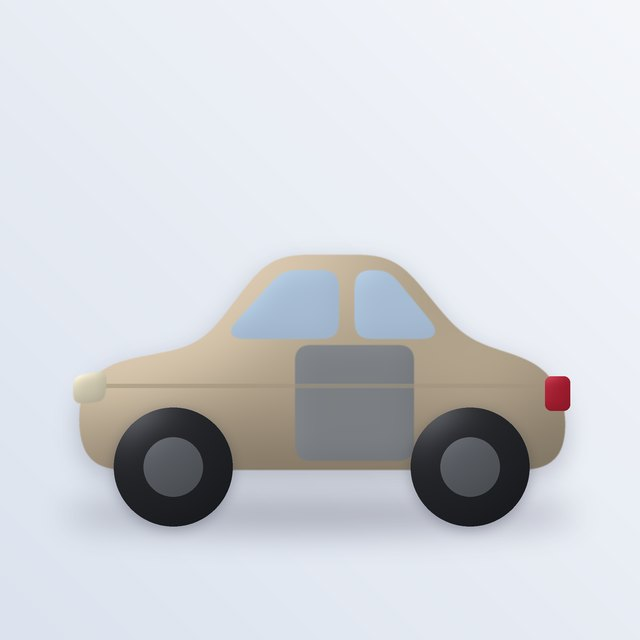
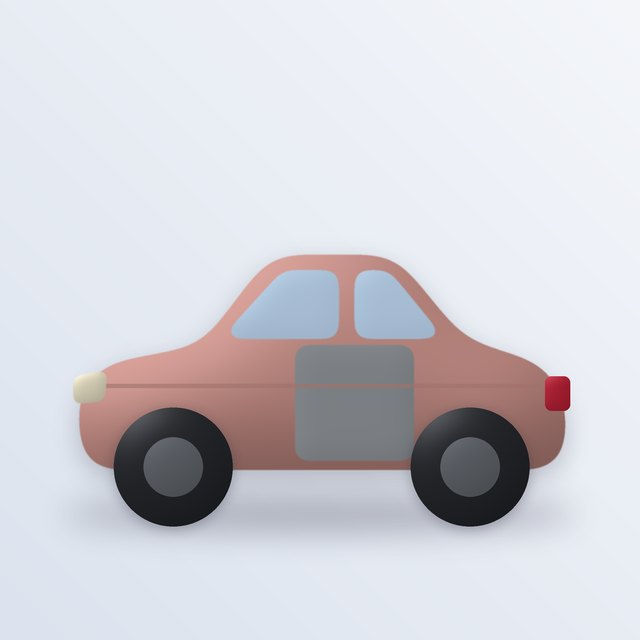
Design proposal v0.4: living La Ruta view, faded chosen colour for segunda mano, decisions
Claude-Session: https://claude.ai/code/session_01NvZbTZwM97iNLxjbUBvytG

Changed region(s): [[0.125, 0.375, 0.9062, 0.75]]

diff --git a/docs/design/relanti-design-proposal.html b/docs/design/relanti-design-proposal.html
@@ -271,9 +271,11 @@ tr.new td:first-child::after{content:" new";font-family:var(--display);font-size
     <div class="sub">Tu road trip hasta el permiso, con Turbo en el salpicadero</div>
   </div>
   <div class="posts" aria-hidden="true"><i></i><i></i></div>
-  <p class="lede"><strong>Design proposal, v0.3 (4 Nov 2026).</strong> Relanti is a native iOS and Android app for passing the Spanish DGT theory exam for the B licence. It reuses Volantón's flow (one shell, levels you land on two different days, calm rewards, content as data) and replaces the airport with a road trip: one road with a stop for every topic, ending at the exam centre. You drive your own car, Relanti, and the GPS on its dashboard guides you there. Use the switch at the top to see the mocks in light or dark.</p>
+  <p class="lede"><strong>Design proposal, v0.4 (4 Nov 2026).</strong> Relanti is a native iOS and Android app for passing the Spanish DGT theory exam for the B licence. It reuses Volantón's flow (one shell, levels you land on two different days, calm rewards, content as data) and replaces the airport with a road trip: one road with a stop for every topic, ending at the exam centre. You drive your own car, Relanti, and the GPS on its dashboard guides you there. Use the switch at the top to see the mocks in light or dark.</p>
   <div class="changes">
-    <div><b>New in v0.3: Puntos del carnet</b>You earn 15 licence points as you master etapas, mirroring the real points system.</div>
+    <div><b>New in v0.4: La Ruta is alive</b>The windscreen changes with the etapa, the time of day and the km left to the exam.</div>
+    <div><b>New: your colour from day one</b>You pick it at the start and see it faded and dusty until Pintura nueva.</div>
+    <div><b>v0.3: Puntos del carnet</b>You earn 15 licence points as you master etapas, mirroring the real points system.</div>
     <div><b>New: your car evolves</b>From a faded second-hand car to fully done up, one upgrade per points milestone.</div>
     <div><b>New: animated GPS</b>His eyes are drawn in code on his screen, so they move smoothly in the app. Try the demo.</div>
     <div><b>New: exit signs</b>Desvíos look like motorway exits. Paid etapas are toll roads.</div>
@@ -335,7 +337,7 @@ tr.new td:first-child::after{content:" new";font-family:var(--display);font-size
       <li><b>Optional voice</b>, read aloud like a real sat nav.</li></ul></div>
     <div class="card"><h3>What do we call him?</h3><p>"Turbo" is crowded (there are driving schools called Turbo), and a GPS doesn't need a car-part name. Options:</p>
       <div class="names">
-        <div class="rec"><b>Tú decides</b><span>The learner names their GPS during setup. "Turbo" is just the default, and the working name in these mocks.</span></div>
+        <div class="rec"><b>Tú decides</b><span>Decided: in setup the learner taps a suggestion or types their own. "Turbo" is the working name in these mocks.</span></div>
         <div><b>Gepe</b><span>How many people say "GPS" out loud</span></div>
         <div><b>Kilo</b><span>Short for kilómetro; counts your km</span></div>
         <div><b>Brújula</b><span>The compass; warm and Spanish</span></div>
@@ -345,14 +347,14 @@ tr.new td:first-child::after{content:" new";font-family:var(--display);font-size
   <div class="card" style="gap:12px"><h3>Relanti, tu coche: it evolves as you study</h3>
     <p>As with Volantón's owlet, you can see your car grow. You start with a faded second-hand car, and each points milestone fits one upgrade, so studying is how you do it up. Body, colour and name are yours from day one, and nothing is ever taken away.</p>
     <div class="evo">
-      <figure><img src="img/stage-copiloto.jpg" alt="Faded beige second-hand car with a primer door and steel wheels"><span class="pts">0 pts</span><b>De segunda mano</b><span>Faded paint, primer door</span></figure>
+      <figure><img src="img/stage-copiloto.jpg" alt="Second-hand car in a faded version of the chosen coral, with a primer door and steel wheels"><span class="pts">0 pts</span><b>De segunda mano</b><span>Your colour, faded; primer door</span></figure>
       <figure><img src="img/stage-aprendiz.jpg" alt="Car painted coral with an L sticker"><span class="pts">3 pts</span><b>Pintura nueva</b><span>Your colour and the L</span></figure>
       <figure><img src="img/stage-rodando.jpg" alt="Coral car with gold alloy wheels"><span class="pts">6 pts</span><b>Llantas</b><span>Alloy wheels</span></figure>
       <figure><img src="img/stage-conductor.jpg" alt="Coral car with tinted windows and a white stripe"><span class="pts">8 pts</span><b>Listo para el examen</b><span>Tinted windows, stripe</span></figure>
       <figure><img src="img/stage-rutalarga.jpg" alt="Coral car with roof box and fog lamps"><span class="pts">12 pts</span><b>Ruta larga</b><span>Roof box, fog lamps</span></figure>
       <figure><img src="img/stage-leyenda.jpg" alt="Fully done up coral car with spoiler and blue underglow"><span class="pts">15 pts</span><b>Carnet completo</b><span>Spoiler, underglow, L off</span></figure>
     </div>
-    <p style="font-size:15px">Body types (utilitario, familiar, furgo) and colours are chosen at the start. Later we could unlock extra bodies, like a convertible or a classic, at milestones. Share cards show the car without its upgrades, so a shared picture never reveals your level.</p>
+    <p style="font-size:15px">Body types (utilitario, familiar, furgo) and colours are chosen at the start. Your colour shows from day one, but faded and dusty, so the first upgrade (Pintura nueva) makes your own choice shine. Later we could unlock extra bodies, like a convertible or a classic, at milestones. Share cards show the car without its upgrades, so a shared picture never reveals your level.</p>
   </div>
   <div class="card"><h3>How we got here</h3><div class="journey"><span>Dog co-pilot</span><span>Car with headlight eyes</span><span>Burbuja micro car</span><span>Soft toy car</span><span>Windscreen eyes</span><span>Road-sign pictogram</span><span class="on">Sat nav</span></div><p>Every direction is rendered on the <a href="https://claude.ai/artifact/QzTS5JLRR8AY8vsmqGY3MG">Turbo renders</a> page, and the full flow with the GPS is on <a href="https://claude.ai/artifact/Fq3rTgrc8SFdeYPtRndkpJ">Turbo on the dashboard</a>.</p></div>
   <div class="cols">
@@ -597,6 +599,15 @@ tr.new td:first-child::after{content:" new";font-family:var(--display);font-size
       <span class="btn">Compartir postal</span></div></div></div>
       <figcaption><b>12 · ¡Aprobado!</b>You tell the app you passed and the road reaches the exam sign. Turbo stays on for your novice year.</figcaption></figure>
   </div>
+  <div class="card" style="margin-top:18px"><h3>La Ruta is never the same picture</h3>
+    <p>Home is the view through your own windscreen, and four things change it. The <b>landscape</b> follows the etapa you're driving (ciudad, meseta, costa, montaña). The <b>light</b> follows your phone's clock (amanecer, día, atardecer, noche). The <b>EXAMEN sign</b> gets closer as km go down. The <b>frame is your car</b>: your colour, faded at the start, then the L sticker and later upgrades. The GPS's face reacts to how your last session went.</p>
+    <div class="evo" style="grid-template-columns:repeat(4,minmax(0,1fr))">
+      <figure><img src="img/ruta-start.jpg" alt="Dawn over a city skyline seen through a faded coral windscreen, sign Examen 58 km"><span class="pts">día 1</span><b>Ciudad · amanecer</b><span>58 km, faded paint</span></figure>
+      <figure><img src="img/ruta-meseta.jpg" alt="Midday on the meseta with windmills, sign Examen 40 km, L sticker on the glass"><span class="pts">3 pts</span><b>Meseta · día</b><span>40 km, new paint and L</span></figure>
+      <figure><img src="img/ruta-costa.jpg" alt="Sunset by the sea, sign Examen 22 km, GPS smiling"><span class="pts">7 pts</span><b>Costa · atardecer</b><span>22 km, GPS happy</span></figure>
+      <figure><img src="img/ruta-montana.jpg" alt="Night in the mountains with stars and moon, headlights on the road, sign Examen 6 km close"><span class="pts">11 pts</span><b>Montaña · noche</b><span>6 km, sign close</span></figure>
+    </div>
+    <p style="margin-top:10px;font-size:14px;color:var(--ink2)">In the app these are layers (sky, landscape, sign, frame, GPS), not fixed pictures, so each etapa only needs one landscape layer and the light is a tint. Reduced motion keeps the road still.</p></div>
 </section>
 
 <div class="road" aria-hidden="true"></div>
@@ -730,15 +741,17 @@ tr.new td:first-child::after{content:" new";font-family:var(--display);font-size
       <li>Relanti is your car, and it evolves as you study</li>
       <li>Colours: Autopista, Línea, Atardecer, Asfalto</li>
       <li>Trucos as our edge; the GPS is on every question</li>
-      <li>One-time payment with a free part</li></ul></div>
+      <li>One-time payment with a free part</li>
+      <li>The learner names the GPS: suggestions or their own</li>
+      <li>v1 is the B licence only</li>
+      <li>La Ruta changes with etapa, time of day and km</li></ul></div>
     <div class="card"><span class="tag t-risk">To confirm</span><ul>
-      <li>The GPS's name: you decide, Gepe, Kilo, Brújula or Turbo</li>
+      <li>Segunda mano shows your colour faded until Pintura nueva</li>
       <li>Licence points (0 to 15) as the mastery total</li>
       <li>Free tier: 3 etapas plus a daily simulacro</li>
       <li>Price between 9,99 € and 14,99 €</li>
       <li>Content packs between releases (network use)</li></ul></div>
     <div class="card"><span class="tag">Open</span><ul>
-      <li>v1 scope: B licence only?</li>
       <li>Formal TMview and OEPM search; register Relanti</li>
       <li>Test the photo tip on real DGT questions</li>
       <li>Repo skeleton: SwiftUI, Compose, shared content and spec, the law watch Action</li></ul></div>

diff --git a/Scripts/turbo/turbo.py b/Scripts/turbo/turbo.py
@@ -368,6 +368,117 @@ def dashboard(expr="idle", sky=("FFD29A", "F58A5B"), car_c=hx("E8574F")):
     img.alpha_composite(small, (int(C + 300 - S * k / 2), int(C + 330 - S * k / 2)))
     return img
 
+# ------------------------------------------------ La Ruta: the home windscreen in different states
+TOD = {  # sky top, sky at horizon, sun/moon colour, sun height, light multiplier
+    "amanecer": ("8FA6DA", "FFC4A0", "FFE1C2", 60, .9),
+    "dia": ("4E8FE6", "BFE0FF", "FFF8E0", -380, 1.0),
+    "atardecer": ("7FA8E0", "FFB27A", "FFF1C9", -100, .85),
+    "noche": ("0B1330", "26355E", "E6ECFF", -420, .38),
+}
+
+
+def shade(c, k):
+    return tuple(int(min(255, v * k)) for v in c[:3]) + (255,)
+
+
+def ruta(land="meseta", tod="atardecer", km=12, car_c=hx("E8574F"), dull=False, lplate=False, expr="idle"):
+    """Home screen view: the windscreen. Landscape follows the etapa, light follows the clock,
+    the gantry counts km to the exam, and the frame is your own car."""
+    top, hor, sunc, sun_y, k = TOD[tod]
+    img = grad(hx(top), hx(hor), 90)
+    E, R, Poly, Line, T = mk(1.0, 0, 0, 0)
+    hz = -120
+    night = tod == "noche"
+    if night:
+        for (x, y) in [(-700, -600), (-420, -700), (-150, -560), (260, -680), (520, -590), (760, -720), (-860, -420), (640, -440), (60, -760)]:
+            img = paint(img, E(x - 8, y - 8, x + 8, y + 8), WHITE, .85)
+        img = paint(img, E(520, -560, 660, -420), hx("F2F4FF"))
+        img = paint(img, E(560, -590, 700, -450), hx(top))
+    else:
+        sx = -420 if tod == "amanecer" else (0 if tod == "atardecer" else 420)
+        sun = E(sx - 150, sun_y - 150, sx + 150, sun_y + 150)
+        img = paint(img, sun.filter(ImageFilter.GaussianBlur(80)), hx("FFE7B0"), .7)
+        img = paint(img, sun, hx(sunc))
+    ground = hx({"ciudad": "8E9A8A", "meseta": "C9A86A", "costa": "C7B98A", "montana": "7FA06A"}[land])
+    if land == "ciudad":
+        x = -1100
+        hs = [160, 260, 120, 340, 200, 420, 180, 300, 140, 380, 220, 280, 160]
+        for i, h in enumerate(hs):
+            w = 150 + (i % 3) * 30
+            if abs(x + w / 2) > 140:
+                img = paint(img, R(x, hz - h, x + w - 12, hz + 20, 6), shade(hx("6F7C93"), k))
+                if night:
+                    for wy in range(int(hz - h + 30), hz - 10, 60):
+                        for wx in range(int(x + 20), int(x + w - 40), 50):
+                            if (wx * 7 + wy * 3) % 5 < 2: img = paint(img, R(wx, wy, wx + 22, wy + 30, 3), hx("FFD27A"), .9)
+            x += w
+    elif land == "montana":
+        peaks = smooth(Poly([(-1100, hz + 20), (-820, hz - 420), (-560, hz - 180), (-300, hz - 520), (-40, hz - 120), (240, hz - 460), (560, hz - 200), (860, hz - 560), (1100, hz - 260), (1100, hz + 40), (-1100, hz + 40)]), 30)
+        img = paint(img, peaks, shade(hx("7C86A6"), k))
+        for (px_, py_) in [(-820, -420), (-300, -520), (240, -460), (860, -560)]:
+            img = paint(img, smooth(Poly([(px_, hz + py_), (px_ - 90, hz + py_ + 120), (px_ + 90, hz + py_ + 120)]), 20), shade(WHITE, k))
+    elif land == "costa":
+        img = paint(img, Poly([(80, hz - 6), (1100, hz - 6), (1100, hz + 400), (80, hz + 60)]), shade(hx("2F7FC1"), k))
+        img = paint(img, smooth(Poly([(-1100, hz + 20), (-760, hz - 150), (-420, hz - 60), (-120, hz - 30), (-120, hz + 40), (-1100, hz + 40)]), 30), shade(hx("B9846A"), k))
+    else:  # meseta
+        hills = smooth(Poly([(-1100, hz + 20), (-700, hz - 90), (-380, hz - 20), (-60, hz - 110), (320, hz - 30), (700, hz - 100), (1100, hz - 20), (1100, hz + 40), (-1100, hz + 40)]), 30)
+        img = paint(img, hills, shade(hx("C77D6A"), k))
+        for mx in (-640, 520):  # windmills
+            img = paint(img, R(mx - 6, hz - 260, mx + 6, hz, 3), shade(WHITE, k))
+            for a in (90, 210, 330):
+                r_ = math.radians(a)
+                img = paint(img, Line([(mx, hz - 260), (mx + 110 * math.cos(r_), hz - 260 - 110 * math.sin(r_))], 8), shade(WHITE, k))
+    gnd = Poly([(-1100, hz + 10), (1100, hz + 10), (1100, 1100), (-1100, 1100)])
+    if land == "costa":
+        gnd = Poly([(-1100, hz + 10), (80, hz + 10), (900, 1100), (-1100, 1100)])
+        img = paint(img, Poly([(80, hz + 10), (1100, hz + 10), (1100, 1100), (900, 1100)]), shade(hx("2F7FC1"), k * .95))
+    img = paint(img, gnd, shade(ground, k))
+    road = Poly([(-60, hz + 10), (60, hz + 10), (900, 1100), (-900, 1100)])
+    img = paint(img, road, shade(hx("3A3F48"), max(k, .6)))
+    if night:  # headlight pool
+        img = paint(img, Poly([(-40, hz + 120), (40, hz + 120), (700, 1100), (-700, 1100)]).filter(ImageFilter.GaussianBlur(90)), hx("FFF0C0"), .35)
+    for edge_x in (-1, 1):
+        img = paint(img, Poly([(edge_x * 52, hz + 10), (edge_x * 60, hz + 10), (edge_x * 900, 1100), (edge_x * 860, 1100)]), WHITE, .9)
+    y = hz + 30
+    while y < 1100:
+        w = 4 + (y - hz) * .035; L = 14 + (y - hz) * .25
+        img = paint(img, Poly([(-w, y), (w, y), (w * 1.1, y + L), (-w * 1.1, y + L)]), WHITE, .95)
+        y += L * 2.1
+    # gantry: closer (bigger) as km drops
+    sc = 1.0 + (1 - min(km, 60) / 60) * .7
+    gw, gh, gy = 260 * sc, 60 * sc, hz - 170 * sc
+    img = paint(img, R(-gw, gy - gh, gw, gy + gh, 16), ROADBLUE)
+    img = paint(img, T(f"EXAMEN  {km} km", 0, gy, int(64 * sc)), WHITE)
+    for px_ in (-gw + 10, gw - 10): img = paint(img, R(px_ - 8 * sc, gy + gh, px_ + 8 * sc, hz + 20, 4), hx("6B7280"))
+    # windscreen frame in the learner's own car colour
+    frame = ImageChops.subtract(R(-1100, -1100, 1100, 1100, 0), smooth(Poly([(-900, -760), (900, -760), (1040, 420), (-1040, 420)]), 80))
+    if dull:  # the chosen colour, faded and dusty until Pintura nueva
+        car_c = tuple(int(a * .45 + b * .55) for a, b in zip(car_c[:3], hx("C9C2B8")[:3])) + (255,)
+    img = inflate(img, frame, shade(car_c, .95 if night else 1), depth=1.2, soft=120, shine=.08 if dull else .35, gloss_pow=8 if dull else 22, ambient=.52 if dull else .42)
+    if dull:  # dust and a primer patch on the pillar
+        img = paint(img, smooth(Poly([(-1100, -900), (-880, -760), (-1000, 400), (-1100, 420)]), 20), hx("9EA3A8"), .9)
+    if lplate:
+        img = paint(img, R(700, -700, 840, -560, 16), hx("1A56B0"))
+        img = paint(img, T("L", 770, -630, 110), WHITE)
+    dash = smooth(ImageChops.lighter(E(-1300, 300, 1300, 900), R(-1100, 560, 1100, 1100, 0)), 30)
+    img = contact(img, dash, -30, 60, .35, SHADOW)
+    img = inflate(img, dash, hx("2E3138"), depth=1.2, soft=160, shine=.25, gloss_pow=18)
+    img = inflate(img, E(-900, 760, -300, 1300), hx("1F2227"), depth=1, soft=80, shine=.3)
+    img = inflate(img, ImageChops.subtract(E(-860, 800, -340, 1260), E(-760, 900, -440, 1160)), hx("3A3F48"), depth=1, soft=40, shine=.4)
+    layer = satnav(expr, 1.0, bg=Image.new("RGBA", (S, S), (0, 0, 0, 0)), mount=False)
+    kk = .42
+    small = layer.resize((int(S * kk), int(S * kk)), Image.LANCZOS)
+    img.alpha_composite(small, (int(C + 300 - S * kk / 2), int(C + 330 - S * kk / 2)))
+    return img
+
+
+RUTA_STATES = [
+    ("ruta-start", dict(land="ciudad", tod="amanecer", km=58, car_c=hx("E8574F"), dull=True)),
+    ("ruta-meseta", dict(land="meseta", tod="dia", km=40, car_c=hx("E8574F"), lplate=True)),
+    ("ruta-costa", dict(land="costa", tod="atardecer", km=22, car_c=hx("E8574F"), lplate=True, expr="happy")),
+    ("ruta-montana", dict(land="montana", tod="noche", km=6, car_c=hx("E8574F"), lplate=True, expr="explain")),
+]
+
 
 def save_small(img, name, px=640):
     img.convert("RGB").resize((px, px), Image.LANCZOS).save(f"{OUT}/{name}.jpg", quality=86)
@@ -388,6 +499,10 @@ if __name__ == "__main__":
     if "stages" in which:
         for name, col, kit in STAGES:
             save_small(relanti("city", col or hx("E8574F"), kit), f"stage-{name}")
+    if "ruta" in which:
+        for name, kw in RUTA_STATES: save_small(ruta(**kw), name, 900)
+    if "stagefaded" in which:
+        save_small(relanti("city", hx("C98E86"), ("dull", "primer", "steel")), "stage-copiloto")
     if "blank" in which:
         save_small(satnav("blank"), "satnav-blank", 900)
     if "dash" in which:
